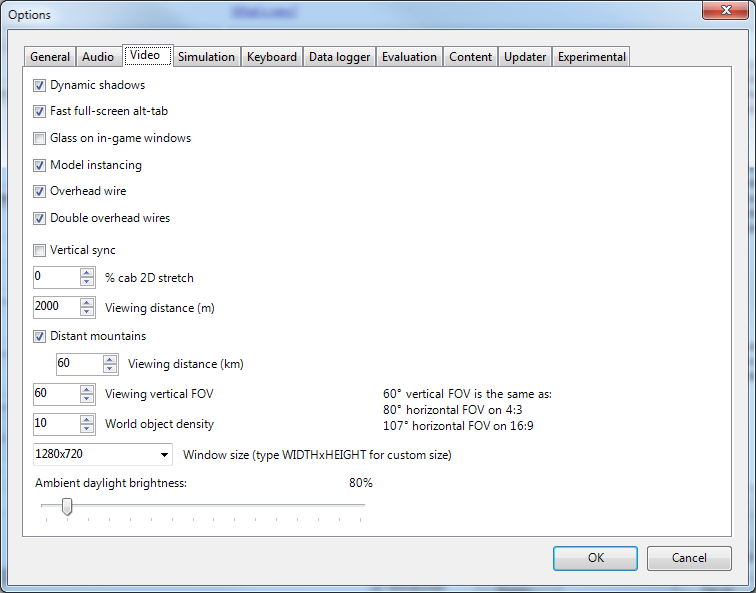
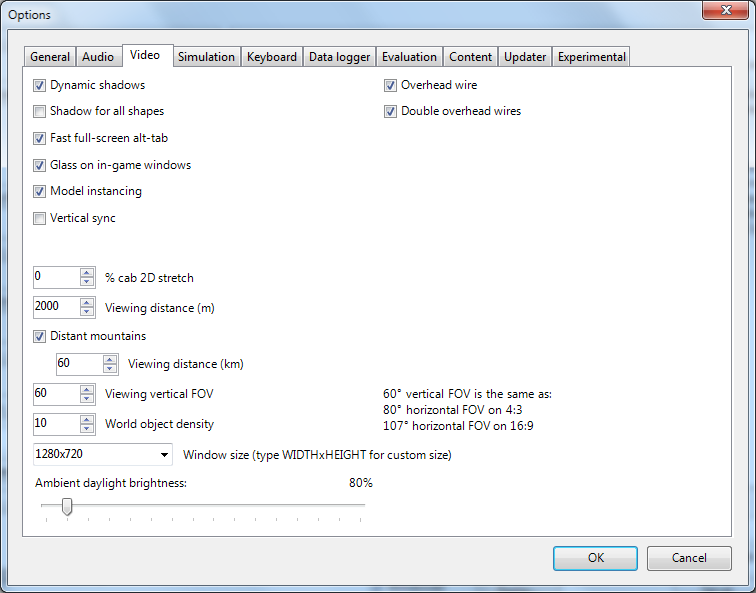
Added description of https://blueprints.launchpad.net/or/+spec/shadow-all-shapes-accessible in OR manual.
git-svn-id: http://svn.uktrainsim.com/svn/openrails/trunk@3994 a9f3cfff-6c41-7446-b0ca-052bd761e6eb

diff --git a/Source/Documentation/Manual/conf.py b/Source/Documentation/Manual/conf.py
@@ -64,7 +64,7 @@ author = 'Open Rails'
 # The short X.Y version.
 version = '1.2 (draft)'
 # The full version, including alpha/beta/rc tags.
-release = 'x.3985 (draft)'
+release = 'x.3993 (draft)'
 
 # The language for content autogenerated by Sphinx. Refer to documentation
 # for a list of supported languages.

diff --git a/Source/Documentation/Manual/options.rst b/Source/Documentation/Manual/options.rst
@@ -193,6 +193,13 @@ With this option it is possible to enable or disable the display of
 dynamic shadows. Disabling can be helpful if low frame rates are 
 experienced.
 
+Shadow for all shapes
+---------------------
+
+When this option is selected and also the Dynamic shadows option is selected, 
+OR displays a shadow also for the objects that don't have a shadow defined in 
+the .ref file, and also for forest trees. This may reduce game performance.
+
 .. _options-fullscreen:
 
 Fast full-screen Alt+Tab
